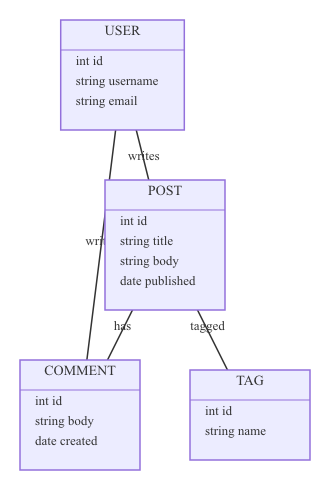
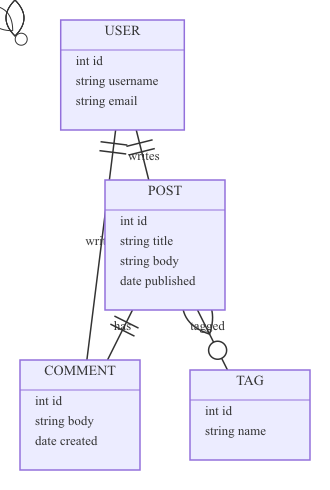
ER: render crow's-foot cardinality markers
Adds eight SVG marker defs (4 cardinalities × start/end) to the ER
renderer and wires marker-start/marker-end onto each relationship
based on FromCard/ToCard. Geometry mirrors mermaid-cli's er markers.
Edge endpoints are clipped to the entity rectangle so the cardinality
glyph reads on the box edge rather than buried in the entity center.

svgutil: adds MarkerStart to Path and Line so endpoints can carry
both markers (previously only marker-end was supported).

Refreshes ER example snapshots to match.

diff --git a/pkg/renderer/er/markers.go b/pkg/renderer/er/markers.go
@@ -1,0 +1,123 @@
+package er
+
+import (
+	"github.com/julianshen/mmgo/pkg/diagram"
+	"github.com/julianshen/mmgo/pkg/renderer/svgutil"
+)
+
+// Crow's-foot marker geometry mirrors mermaid-cli's er marker defs:
+// each cardinality renders two SVG markers (start/end) so the glyph
+// faces away from the line in either direction. orient="auto" rotates
+// the marker along the path tangent; refX positions it so the
+// notation reads "outside" the relationship line at each entity edge.
+
+const (
+	cardNameOnlyOne    = "onlyOne"
+	cardNameZeroOrOne  = "zeroOrOne"
+	cardNameOneOrMore  = "oneOrMore"
+	cardNameZeroOrMore = "zeroOrMore"
+)
+
+func cardName(c diagram.ERCardinality) string {
+	switch c {
+	case diagram.ERCardExactlyOne:
+		return cardNameOnlyOne
+	case diagram.ERCardZeroOrOne:
+		return cardNameZeroOrOne
+	case diagram.ERCardOneOrMore:
+		return cardNameOneOrMore
+	case diagram.ERCardZeroOrMore:
+		return cardNameZeroOrMore
+	}
+	return ""
+}
+
+// markerID returns the def id for a cardinality at one path endpoint.
+// pos is "start" or "end". Returns "" when the cardinality is unknown.
+func markerID(c diagram.ERCardinality, pos string) string {
+	name := cardName(c)
+	if name == "" {
+		return ""
+	}
+	return "er-" + name + "-" + pos
+}
+
+// markerRef wraps an id as the SVG marker-start/marker-end attribute
+// value. Empty id yields empty string so the attribute is omitted.
+func markerRef(id string) string {
+	if id == "" {
+		return ""
+	}
+	return "url(#" + id + ")"
+}
+
+// buildERMarkers returns the eight marker defs (4 cardinalities × 2
+// endpoints). Geometry is the same as mermaid-cli's er markers, drawn
+// with stroke=#333 and white fill on the "optional" circle so the
+// relationship line is visually broken at the zero-or-X glyph.
+func buildERMarkers() []svgutil.Marker {
+	const stroke = "stroke:#333;stroke-width:1;fill:none"
+	const optionalFill = "fill:#fff;stroke:#333;stroke-width:1"
+
+	return []svgutil.Marker{
+		// onlyOne: two parallel bars (||).
+		{
+			ID: markerID(diagram.ERCardExactlyOne, "start"), ViewBox: "0 0 18 18",
+			RefX: 0, RefY: 9, Width: 18, Height: 18, Orient: "auto",
+			Children: []any{&path{D: "M9,0 L9,18 M15,0 L15,18", Style: stroke}},
+		},
+		{
+			ID: markerID(diagram.ERCardExactlyOne, "end"), ViewBox: "0 0 18 18",
+			RefX: 18, RefY: 9, Width: 18, Height: 18, Orient: "auto",
+			Children: []any{&path{D: "M3,0 L3,18 M9,0 L9,18", Style: stroke}},
+		},
+
+		// zeroOrOne: bar + open circle (|o or o|).
+		{
+			ID: markerID(diagram.ERCardZeroOrOne, "start"), ViewBox: "0 0 30 18",
+			RefX: 0, RefY: 9, Width: 30, Height: 18, Orient: "auto",
+			Children: []any{
+				&circle{CX: 21, CY: 9, R: 6, Style: optionalFill},
+				&path{D: "M9,0 L9,18", Style: stroke},
+			},
+		},
+		{
+			ID: markerID(diagram.ERCardZeroOrOne, "end"), ViewBox: "0 0 30 18",
+			RefX: 30, RefY: 9, Width: 30, Height: 18, Orient: "auto",
+			Children: []any{
+				&circle{CX: 9, CY: 9, R: 6, Style: optionalFill},
+				&path{D: "M21,0 L21,18", Style: stroke},
+			},
+		},
+
+		// oneOrMore: crow's-foot + bar.
+		{
+			ID: markerID(diagram.ERCardOneOrMore, "start"), ViewBox: "0 0 45 36",
+			RefX: 18, RefY: 18, Width: 45, Height: 36, Orient: "auto",
+			Children: []any{&path{D: "M0,18 Q18,0 36,18 Q18,36 0,18 M42,9 L42,27", Style: stroke}},
+		},
+		{
+			ID: markerID(diagram.ERCardOneOrMore, "end"), ViewBox: "0 0 45 36",
+			RefX: 27, RefY: 18, Width: 45, Height: 36, Orient: "auto",
+			Children: []any{&path{D: "M3,9 L3,27 M9,18 Q27,0 45,18 Q27,36 9,18", Style: stroke}},
+		},
+
+		// zeroOrMore: crow's-foot + open circle.
+		{
+			ID: markerID(diagram.ERCardZeroOrMore, "start"), ViewBox: "0 0 57 36",
+			RefX: 18, RefY: 18, Width: 57, Height: 36, Orient: "auto",
+			Children: []any{
+				&circle{CX: 48, CY: 18, R: 6, Style: optionalFill},
+				&path{D: "M0,18 Q18,0 36,18 Q18,36 0,18", Style: stroke},
+			},
+		},
+		{
+			ID: markerID(diagram.ERCardZeroOrMore, "end"), ViewBox: "0 0 57 36",
+			RefX: 39, RefY: 18, Width: 57, Height: 36, Orient: "auto",
+			Children: []any{
+				&circle{CX: 9, CY: 18, R: 6, Style: optionalFill},
+				&path{D: "M21,18 Q39,0 57,18 Q39,36 21,18", Style: stroke},
+			},
+		},
+	}
+}

diff --git a/pkg/renderer/er/renderer.go b/pkg/renderer/er/renderer.go
@@ -61,6 +61,7 @@ func Render(d *diagram.ERDiagram, opts *Options) ([]byte, error) {
 		X: 0, Y: 0, Width: svgFloat(viewW), Height: svgFloat(viewH),
 		Style: "fill:#fff;stroke:none",
 	})
+	children = append(children, &defs{Markers: buildERMarkers()})
 	children = append(children, renderEdges(d, l, pad, fontSize)...)
 	children = append(children, renderEntities(d, l, pad, fontSize)...)
 
@@ -81,6 +82,31 @@ func sanitize(v float64) float64 {
 		return 0
 	}
 	return v
+}
+
+// clipToRectEdge returns the point where the segment from (cx, cy) to
+// (ox, oy) crosses the axis-aligned rectangle of size (w, h) centered
+// at (cx, cy). Used to pull layout edges back from entity centers to
+// entity edges so cardinality markers sit outside the box.
+func clipToRectEdge(cx, cy, w, h, ox, oy float64) layout.Point {
+	dx, dy := ox-cx, oy-cy
+	if dx == 0 && dy == 0 {
+		return layout.Point{X: cx, Y: cy}
+	}
+	halfW, halfH := w/2, h/2
+	adx, ady := math.Abs(dx), math.Abs(dy)
+	var t float64
+	switch {
+	case ady == 0:
+		t = halfW / adx
+	case adx == 0:
+		t = halfH / ady
+	case adx*halfH > ady*halfW:
+		t = halfW / adx
+	default:
+		t = halfH / ady
+	}
+	return layout.Point{X: cx + dx*t, Y: cy + dy*t}
 }
 
 func entitySize(e diagram.EREntity, ruler *textmeasure.Ruler, fontSize float64) (w, h float64) {
@@ -194,20 +220,46 @@ func renderEdges(d *diagram.ERDiagram, l *layout.Result, pad, fontSize float64) 
 		for i, p := range el.Points {
 			pts[i] = layout.Point{X: p.X + pad, Y: p.Y + pad}
 		}
+		// Crow's-foot markers anchor at the path endpoints. Layout
+		// emits center-to-center edges; clipping the first/last point
+		// to the entity rectangle puts the markers on the box edge so
+		// the cardinality glyph reads outside the entity.
+		if src, ok := l.Nodes[eid.From]; ok {
+			pts[0] = clipToRectEdge(
+				src.X+pad, src.Y+pad, src.Width, src.Height,
+				pts[1].X, pts[1].Y,
+			)
+		}
+		if dst, ok := l.Nodes[eid.To]; ok {
+			last := len(pts) - 1
+			pts[last] = clipToRectEdge(
+				dst.X+pad, dst.Y+pad, dst.Width, dst.Height,
+				pts[last-1].X, pts[last-1].Y,
+			)
+		}
 
 		style := "stroke:#333;stroke-width:1.5;fill:none"
+		startRef := markerRef(markerID(rel.FromCard, "start"))
+		endRef := markerRef(markerID(rel.ToCard, "end"))
 		if len(pts) == 2 {
 			elems = append(elems, &line{
 				X1: svgFloat(pts[0].X), Y1: svgFloat(pts[0].Y),
 				X2: svgFloat(pts[1].X), Y2: svgFloat(pts[1].Y),
-				Style: style,
+				Style:       style,
+				MarkerStart: startRef,
+				MarkerEnd:   endRef,
 			})
 		} else {
 			pathD := fmt.Sprintf("M%.2f,%.2f", pts[0].X, pts[0].Y)
 			for _, p := range pts[1:] {
 				pathD += fmt.Sprintf(" L%.2f,%.2f", p.X, p.Y)
 			}
-			elems = append(elems, &path{D: pathD, Style: style})
+			elems = append(elems, &path{
+				D:           pathD,
+				Style:       style,
+				MarkerStart: startRef,
+				MarkerEnd:   endRef,
+			})
 		}
 
 		if rel.Label != "" {

diff --git a/pkg/renderer/er/renderer_test.go b/pkg/renderer/er/renderer_test.go
@@ -72,6 +72,66 @@ func TestRenderRelationship(t *testing.T) {
 	assertValidSVG(t, out)
 }
 
+// Crow's-foot markers: every relationship endpoint must reference a
+// marker def matching its cardinality. mmdc renders ER edges with
+// distinct glyphs at each end; mmgo previously emitted bare lines
+// with no markers.
+func TestRenderRelationshipCardinalityMarkers(t *testing.T) {
+	d := &diagram.ERDiagram{
+		Entities: []diagram.EREntity{{Name: "A"}, {Name: "B"}},
+		Relationships: []diagram.ERRelationship{
+			{From: "A", To: "B", FromCard: diagram.ERCardExactlyOne, ToCard: diagram.ERCardZeroOrMore},
+		},
+	}
+	out, err := Render(d, nil)
+	if err != nil {
+		t.Fatalf("Render: %v", err)
+	}
+	raw := string(out)
+	for _, want := range []string{
+		`<defs>`,
+		`id="er-onlyOne-start"`,
+		`id="er-zeroOrMore-end"`,
+		`marker-start="url(#er-onlyOne-start)"`,
+		`marker-end="url(#er-zeroOrMore-end)"`,
+	} {
+		if !strings.Contains(raw, want) {
+			t.Errorf("missing %q in:\n%s", want, raw)
+		}
+	}
+}
+
+// Each cardinality should round-trip to its own marker id pair.
+func TestRenderAllCardinalities(t *testing.T) {
+	cases := []struct {
+		card diagram.ERCardinality
+		name string
+	}{
+		{diagram.ERCardExactlyOne, "onlyOne"},
+		{diagram.ERCardZeroOrOne, "zeroOrOne"},
+		{diagram.ERCardOneOrMore, "oneOrMore"},
+		{diagram.ERCardZeroOrMore, "zeroOrMore"},
+	}
+	for _, tc := range cases {
+		t.Run(tc.name, func(t *testing.T) {
+			d := &diagram.ERDiagram{
+				Entities: []diagram.EREntity{{Name: "A"}, {Name: "B"}},
+				Relationships: []diagram.ERRelationship{
+					{From: "A", To: "B", FromCard: tc.card, ToCard: tc.card},
+				},
+			}
+			out, _ := Render(d, nil)
+			raw := string(out)
+			if !strings.Contains(raw, "id=\"er-"+tc.name+"-start\"") {
+				t.Errorf("missing start marker def for %s", tc.name)
+			}
+			if !strings.Contains(raw, "id=\"er-"+tc.name+"-end\"") {
+				t.Errorf("missing end marker def for %s", tc.name)
+			}
+		})
+	}
+}
+
 func TestRenderMultipleEntities(t *testing.T) {
 	d := &diagram.ERDiagram{
 		Entities: []diagram.EREntity{

diff --git a/pkg/renderer/svgutil/svgutil.go b/pkg/renderer/svgutil/svgutil.go
@@ -49,13 +49,14 @@ type Rect struct {
 }
 
 type Line struct {
-	XMLName   xml.Name `xml:"line"`
-	X1        Float    `xml:"x1,attr"`
-	Y1        Float    `xml:"y1,attr"`
-	X2        Float    `xml:"x2,attr"`
-	Y2        Float    `xml:"y2,attr"`
-	Style     string   `xml:"style,attr,omitempty"`
-	MarkerEnd string   `xml:"marker-end,attr,omitempty"`
+	XMLName     xml.Name `xml:"line"`
+	X1          Float    `xml:"x1,attr"`
+	Y1          Float    `xml:"y1,attr"`
+	X2          Float    `xml:"x2,attr"`
+	Y2          Float    `xml:"y2,attr"`
+	Style       string   `xml:"style,attr,omitempty"`
+	MarkerStart string   `xml:"marker-start,attr,omitempty"`
+	MarkerEnd   string   `xml:"marker-end,attr,omitempty"`
 }
 
 type Text struct {
@@ -90,10 +91,11 @@ type Polyline struct {
 }
 
 type Path struct {
-	XMLName   xml.Name `xml:"path"`
-	D         string   `xml:"d,attr"`
-	Style     string   `xml:"style,attr,omitempty"`
-	MarkerEnd string   `xml:"marker-end,attr,omitempty"`
+	XMLName     xml.Name `xml:"path"`
+	D           string   `xml:"d,attr"`
+	Style       string   `xml:"style,attr,omitempty"`
+	MarkerStart string   `xml:"marker-start,attr,omitempty"`
+	MarkerEnd   string   `xml:"marker-end,attr,omitempty"`
 }
 
 type Defs struct {

diff --git a/pkg/renderer/er/svg.go b/pkg/renderer/er/svg.go
@@ -9,4 +9,6 @@ type (
 	line     = svgutil.Line
 	text     = svgutil.Text
 	path     = svgutil.Path
+	circle   = svgutil.Circle
+	defs     = svgutil.Defs
 )
